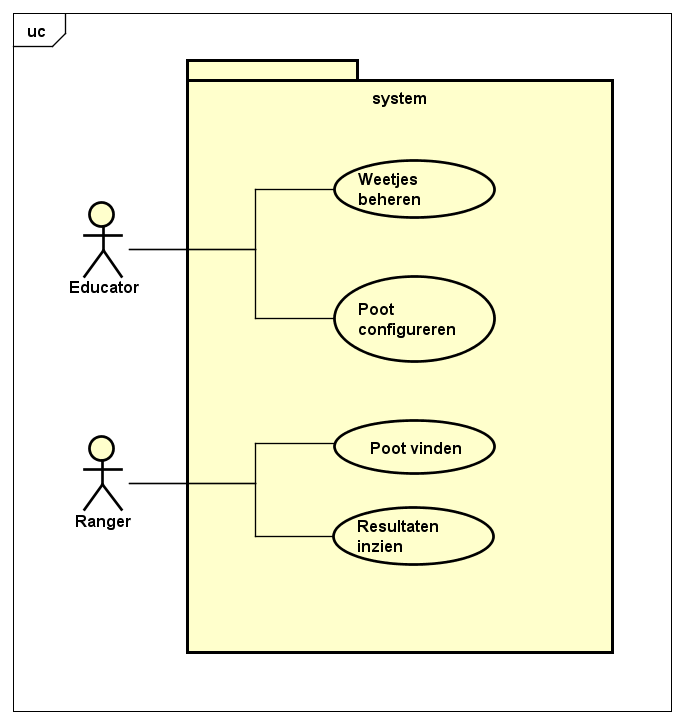
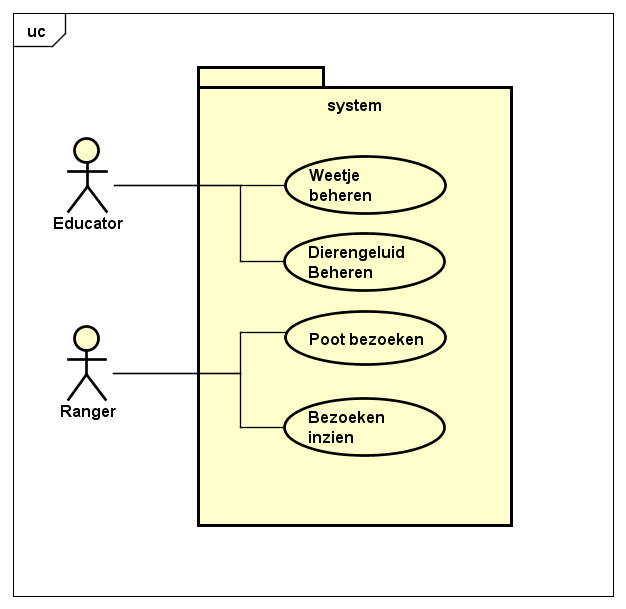
use-cases verder uitschrijven

Changed region(s): [[0.0911, 0.0624, 0.9105, 0.9048], [0.0, 0.0, 0.9712, 0.9984], [0.9712, 0.0312, 1.0, 0.9672]]

diff --git a/documentatie/use cases/1-weetje-beheren-en-diergengeluid-beheren.md b/documentatie/use cases/1-weetje-beheren-en-diergengeluid-beheren.md
@@ -1,4 +1,5 @@
-# Use Case - Weetje Beheren
+# Use Case - Weetje Beheren / Dierengeluid Beheren
+** LET OP: VERVANG IN DEZE USE-CASE HET WOORD 'weetje' DOOR 'dierengeluid' EN DAN KRIJG JE DE USE-CASE dierengeluid-beheren. **
 
 **Primaire Actor**: Educator  
 
@@ -10,7 +11,7 @@ Een educator kan met behulp van het systeem de weetjes die op een bepaalde poot 
 * De educator weet welke poot hij wil aanpassen.
 
 ## Postconditie
-* De poot laat het nieuwe weetje horen dat de educator heeft geconfigureerd.
+* De weetjes die geconfigureerd zijn in het systeem zijn te horen op het pootjes.
 
 ## Success scenario
 
@@ -18,7 +19,8 @@ Een educator kan met behulp van het systeem de weetjes die op een bepaalde poot 
 |---|---|
 |1. De educator kiest in het systeem om de weetjes van een poot aan te passen.| 2. Het systeem laat een lijst met beschikbare pootjes weergeven. |
 | 3. De educator kiest de poot waarvan hij de weetjes wil beheren.  | 4. Het systeem toont de weetjes die nu op de poot staan. |
-| 5. De educator upload een audio bestand om  |  |
+| 5. De educator upload een nieuw audio bestand. | 6. Het systeem upload het nieuwe audio bestand stukje voor stukje naar de poot. |
+| | 7. Het systeem geeft de voortgang van de upload naar de poot weer. Einde use-case. |
 
 ## Alternatieve flow - Weetje verwijderen
 
@@ -31,5 +33,5 @@ Een educator kan met behulp van het systeem de weetjes die op een bepaalde poot 
 
 | Gebruiker | Systeem |
 | --- | --- |
-| 5a. De educator kiest ervoor om een bestaand weetje te beluisteren. | Het systeem laat het weetje horen uit de speaker van de computer. | 
+| 5a. De educator kiest ervoor om een bestaand weetje te beluisteren. | Het systeem laat het weetje op de computer afspelen. | 
 | | Einde use case |

diff --git a/documentatie/use cases/3-bezoeken-inzien.md b/documentatie/use cases/3-bezoeken-inzien.md
@@ -1,0 +1,20 @@
+# Use Case 4 - Bezoeken inzien
+
+**Primaire Actor**: Ranger
+
+**Brief Description**  
+Een ranger bezoekt een website waarin hij zijn rangercode invult. Vervolgens kan hij zien welke poten hij in welke volgorde heeft bezocht. Ook kan de ranger zien welke poten hij nog niet heeft gevonden.
+
+## Preconditie
+* De ranger is in het park geweest en heeft daar een rangercode ontvangen.
+
+## Postconditie
+* De ranger heeft gezien welke poten hij heeft bezocht.
+* De ranger heeft gezien welke poten hij heeft gemist.
+
+## Success scenario
+
+|Gebruiker|Systeem|
+|---|---|
+| 1. De ranger bezoekt een website van het systeem die is meegegeven tijdens het bezoek aan de dierentuin. | 2. Het systeem laat een webpagina zien waar de ranger een rangercode kan invullen |
+| 3. De ranger vult zijn rangercode in. | 4. Het systeem laat een kaartje zien met de bezochte poten en een lijstje met poten die de ranger nog niet bezocht heeft. Einde use case. |

diff --git a/documentatie/use cases/2-poot-bezoeken.md b/documentatie/use cases/2-poot-bezoeken.md
@@ -1,0 +1,23 @@
+# Use Case 3 - Poot bezoeken
+
+**Primaire Actor**: Ranger
+
+**Brief Description**  
+Een ranger bezoekt een poot wanneer de ranger de pas tegen de poot aanhoud. De poot laat een weetje horen.
+
+## Preconditie
+* De poot is geconfigureerd met 1 of meerdere weetjes. 
+* De ranger heeft een pas die bekend is binnen het systeem.
+* De ranger heeft nog niet eerder deze poot bezocht
+
+## Postconditie
+* De ranger heeft het weetje gehooord. 
+* Het bezoek van de ranger is terug te zien in de ranger-app.
+
+## Success scenario
+
+|Gebruiker|Systeem|
+|---|---|
+| 1. De ranger houdt de rangerpas tegen de poot aan. | 2. De poot laat een weetje horen. |
+| | Het systeem laat een dierengeluid horen. |
+| | Het systeem registreert het bezoek van deze ranger in het systeem. |

diff --git a/documentatie/use cases/use-cases.md b/documentatie/use cases/use-cases.md
@@ -1,0 +1,5 @@
+#include "documentatie/use cases/1-weetje-beheren-en-diergengeluid-beheren.md"
+
+#include "documentatie/use cases/2-poot-bezoeken.md"
+
+#include "documentatie/use cases/3-bezoeken-inzien.md"
